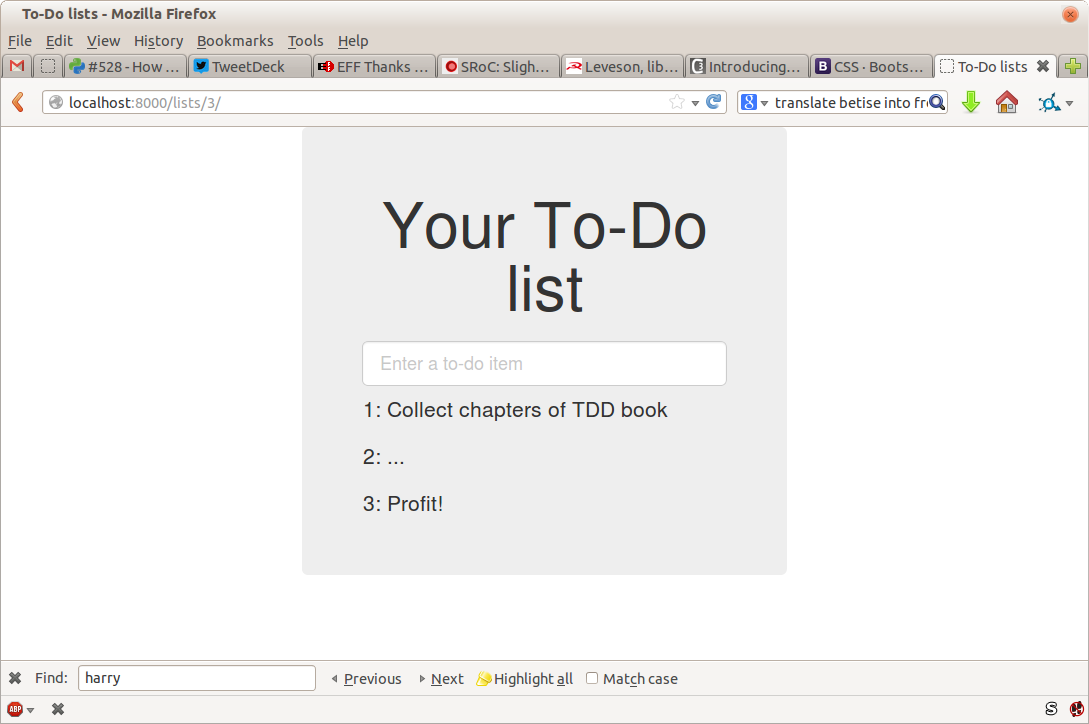
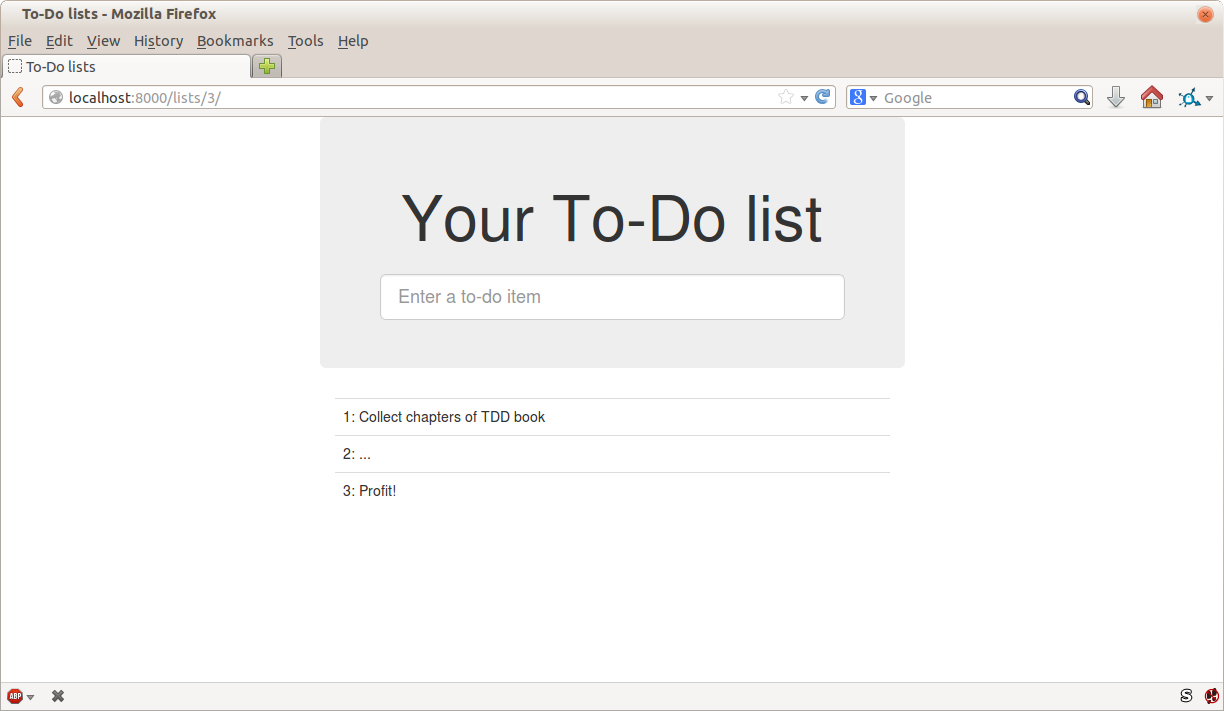
Chapter 7 reviewed. fairly major tweaks to html layout.

diff --git a/tests/test_book_parser.py b/tests/test_book_parser.py
@@ -303,28 +303,26 @@ class ParseCodeListingTest(unittest.TestCase):
         self.assertEqual(type(parsed_listings[1]), Output)
 
 
-    def DONTtest_handles_multiline_commands(self):
+    def test_handles_multiline_commands(self):
         listing = html.fromstring(dedent(
                 """
                 <div class="listingblock">
                 <div class="content">
-                <pre><code>$ <strong>python3 manage.py test \\
-                functional_tests.ItemValidationTest.test_error_messages_are_cleared_on_input</strong>
-
-                .
-                 ---------------------------------------------------------------------
-                Ran 1 test in 3.023s
-
-                OK</code></pre>
+                <pre><code>$ <strong>do something\\
+                that continues on this line</strong>
+                OK
+                </code></pre>
                 </div></div>
                 """
         ))
         commands = get_commands(listing)
         assert len(commands) == 1
-        assert commands[0] == 'python3 manage.py test \\\nfunctional_tests.ItemValidationTest.test_error_messages_are_cleared_on_input'
+        #assert commands[0] == 'do something\\\nthat continues on this line'
+        assert commands[0] == 'do somethingthat continues on this line'
 
         # too hard for now
         parsed_listings = parse_listing(listing)
+        print(parsed_listings)
         self.assertEqual(type(parsed_listings[0]), Command)
         self.assertEqual(parsed_listings[0], commands[0])
 

diff --git a/tests/sourcetree.py b/tests/sourcetree.py
@@ -1,9 +1,20 @@
 import os
 import io
+import re
 import signal
 import shutil
 import subprocess
 import tempfile
+
+def strip_comments(line):
+    match_python = re.match(r"(.+) +#$", line)
+    if match_python:
+        return match_python.group(0)
+    match_js = re.match(r"(.+) +//$", line)
+    if match_js:
+        return match_js.group(0)
+    return line
+
 
 BOOTSTRAP_WGET = 'wget -O bootstrap.zip https://github.com/twbs/bootstrap/archive/v3.0.0.zip'
 
@@ -174,15 +185,16 @@ class SourceTree(object):
             raise ApplyCommitException(
                 'wrong files in listing: {0} should have been {1}'.format(
                     listing.filename, files
-            ))
+                )
+            )
 
         listing_lines = listing.contents.split('\n')
-        listing_lines = [l.rstrip(' #') for l in listing_lines]
-        listing_lines = [l.rstrip(' //') for l in listing_lines]
+        listing_lines = [strip_comments(l) for l in listing_lines]
 
         stripped_listing_lines = [l.strip() for l in listing_lines]
         for new_line in commit.new_lines:
             if new_line.strip() not in stripped_listing_lines:
+                print('stripped_listing_lines', stripped_listing_lines)
                 raise ApplyCommitException(
                     'could not find commit new line {0} in listing:\n{1}'.format(
                         new_line, listing.contents

diff --git a/tests/test_chapter_07.py b/tests/test_chapter_07.py
@@ -21,17 +21,16 @@ class Chapter7Test(ChapterTest):
         self.sourcetree.run_command('python3 manage.py syncdb --noinput')
 
         # skips
-        self.skip_with_check(24, 'the -b means ignore whitespace')
-        self.skip_with_check(27, 'leave static, for now')
-        self.skip_with_check(47, 'will now show all the bootstrap')
-        self.skip_with_check(49, 'projects') # tree showing where static goes
+        self.skip_with_check(25, 'the -b means ignore whitespace')
+        self.skip_with_check(28, 'leave static, for now')
+        self.skip_with_check(49, 'will now show all the bootstrap')
 
         # hack fast-forward
         skip = False
         if skip:
             self.pos = 51
             self.sourcetree.run_command('git checkout {0}'.format(
-                self.sourcetree.get_commit_spec('ch07l018')
+                self.sourcetree.get_commit_spec('ch07l016')
             ))
 
         while self.pos < len(self.listings):

diff --git a/tests/book_parser.py b/tests/book_parser.py
@@ -127,7 +127,8 @@ def parse_listing(listing):
         if caption and caption[0].text_content().startswith('server command'):
             is_server_commands = True
             listing = listing.cssselect('div.content')[0]
-        lines = listing.text_content().strip().replace('\r\n', '\n').split('\n')
+        lines = listing.text_content().strip(
+        ).replace('\r\n', '\n').replace('\\\n', '').split('\n')
 
         outputs = []
         output_after_command = ''
@@ -160,7 +161,7 @@ def parse_listing(listing):
 
 def get_commands(node):
     return [
-        el.text_content()
+        el.text_content().replace('\\\n', '')
         for el in node.cssselect('pre code strong')
     ]
 

diff --git a/tests/examples.py b/tests/examples.py
@@ -129,3 +129,15 @@ OUTPUT_QUNIT = """
 <pre><code>2 assertions of 2 passed, 0 failed.
 1. smoke test (0, 2, 2)</code></pre>
 </div></div>"""
+
+OUTPUT_WITH_CONTINUATION = """
+<div class="listingblock">
+<div class="content">
+<pre><code>$ <strong>wget -O bootstrap.zip https://github.com/twbs/bootstrap/releases/download/\
+v3.1.0/bootstrap-3.1.0-dist.zip</strong>
+$ <strong>unzip bootstrap.zip</strong>
+$ <strong>mkdir lists/static</strong>
+$ <strong>mv dist lists/static/bootstrap</strong>
+$ <strong>rm bootstrap.zip</strong></code></pre>
+</div></div>
+"""

diff --git a/tests/book_tester.py b/tests/book_tester.py
@@ -290,7 +290,7 @@ class ChapterTest(unittest.TestCase):
             if line.startswith('[...'):
                 continue
             if line.endswith('[...]'):
-                line = line.rstrip('[...]').rstrip()
+                line = line.rsplit('[...]')[0]
                 self.assertLineIn(line, [l[:len(line)] for l in actual_lines])
             elif line.startswith(' '):
                 self.assertLineIn(line, actual_lines)
